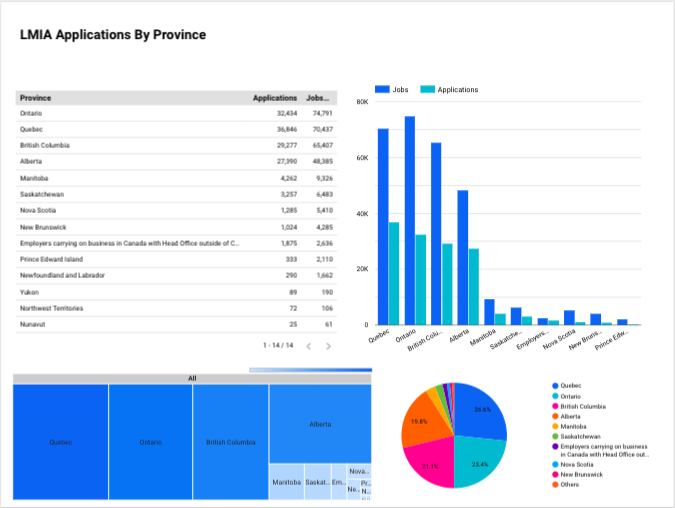
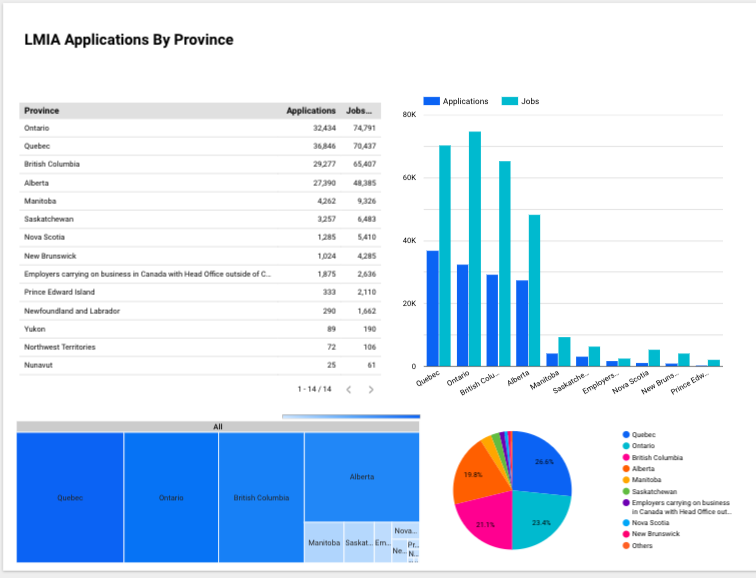
dev
updated readme with a 3rd view for looker

diff --git a/README.md b/README.md
@@ -40,6 +40,8 @@ Finally I visualized the data in looker
 
 ![image](ref/look2.png)
 
+![image](ref/look3.png)
+
 ## Analysis
 Finally these are a few views that detail some summary data on the LMIA applications. LMIA's are roughly correlated to the amount of population in each of the provinces. Ontario and Quebec being the most populated, have the most applications and jobs.
 
